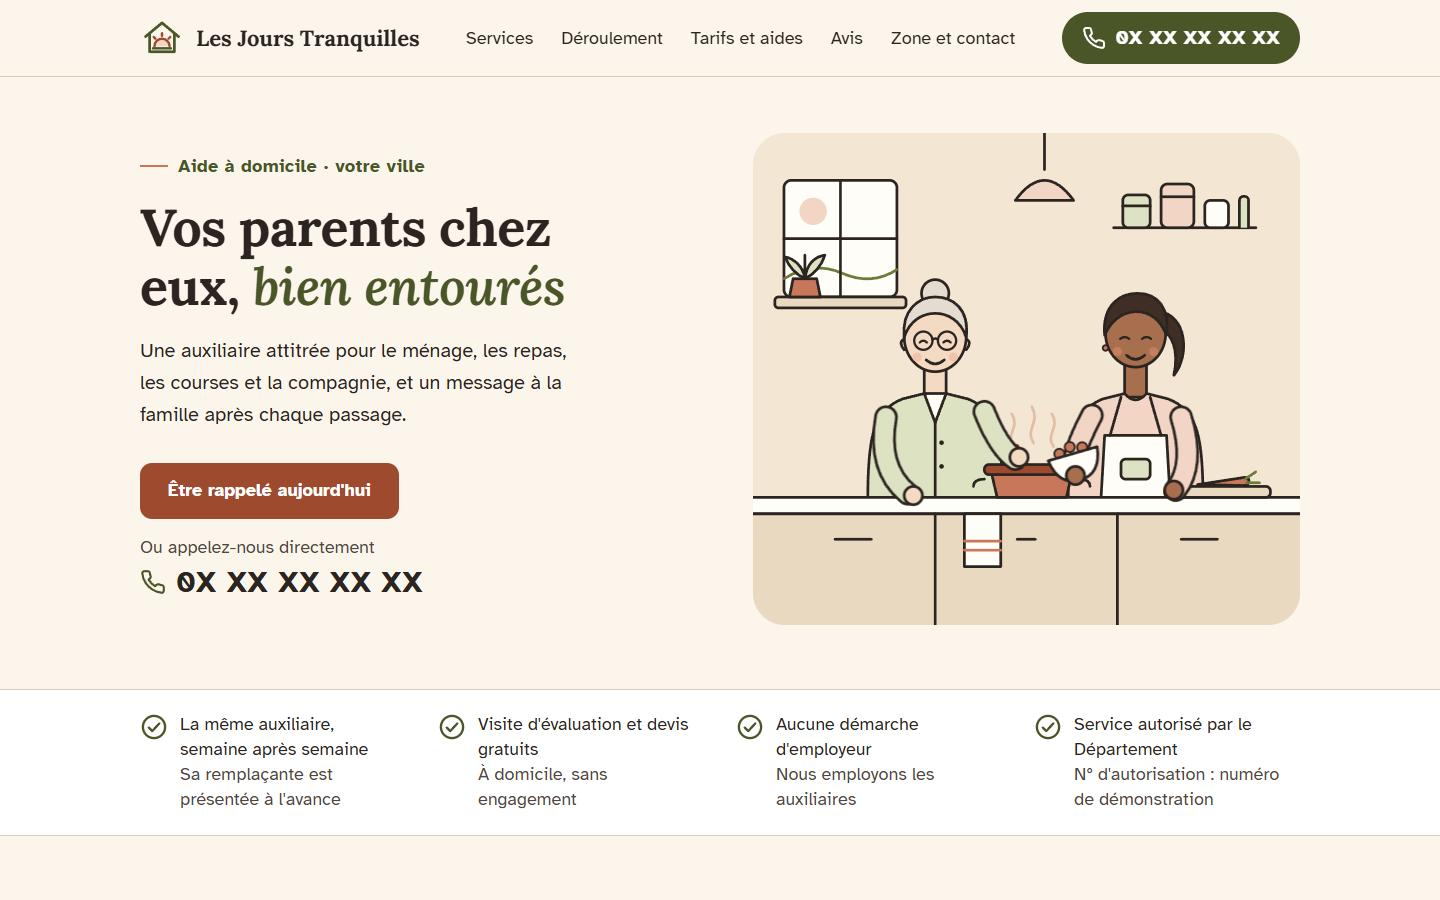
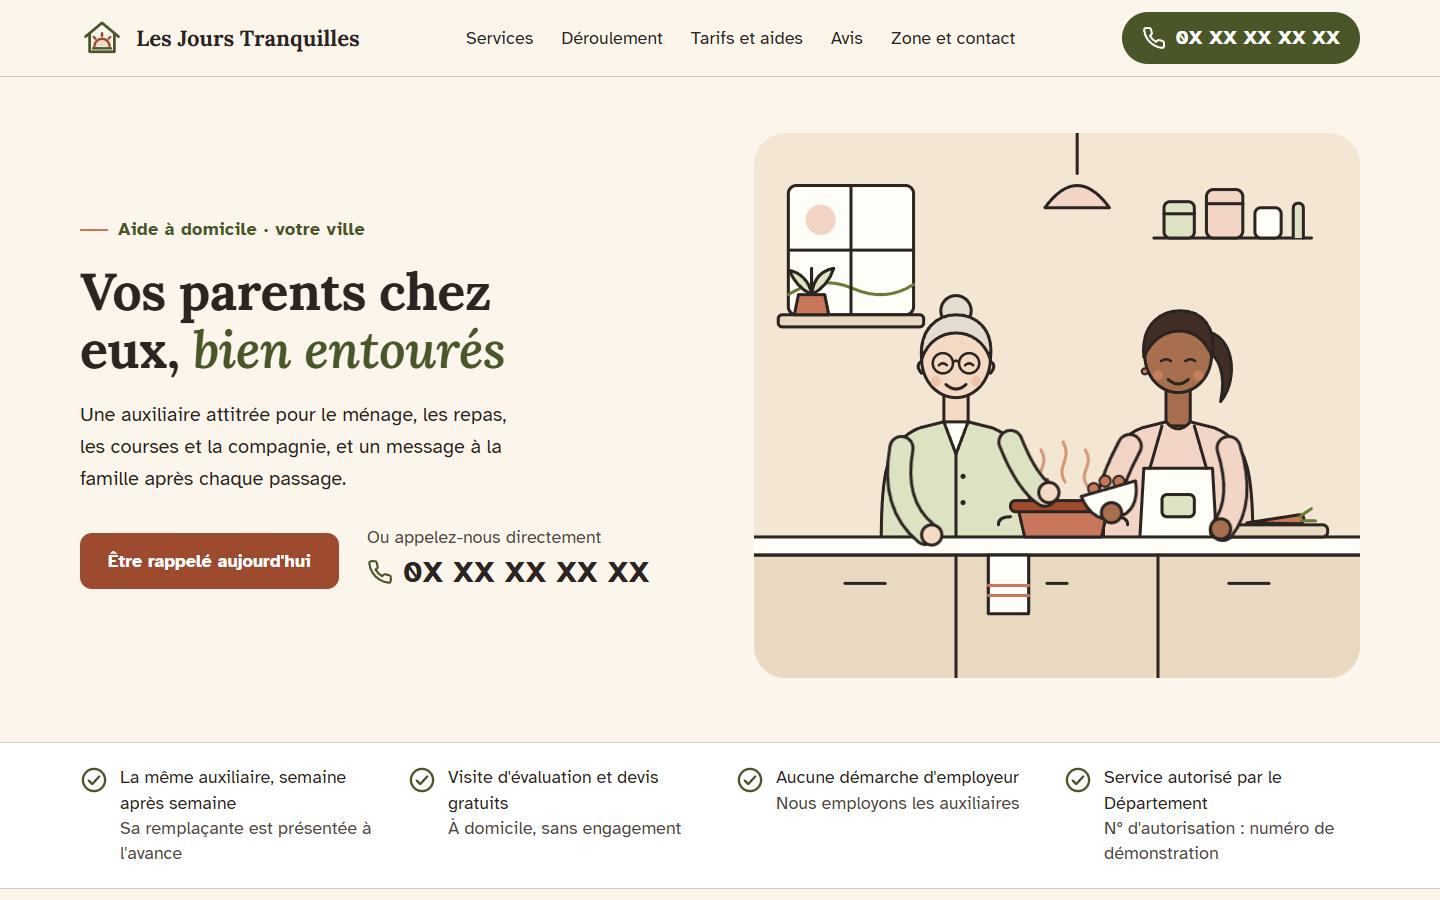
Fit each anchored silver-eco section in the desktop viewport

diff --git a/vitrine-silver-eco/index.html b/vitrine-silver-eco/index.html
@@ -104,7 +104,7 @@ section[id]{scroll-margin-top:96px}
 .callbar{display:none}
 
 /* Header */
-.site-header{position:sticky;top:0;z-index:50;background:rgba(251,245,236,.96);border-bottom:1px solid var(--color-neutral-300)}
+.site-header{position:sticky;top:0;z-index:50;background:var(--color-neutral-50);border-bottom:1px solid var(--color-neutral-300)}
 .site-header .wrap{display:flex;align-items:center;justify-content:space-between;gap:24px;height:76px}
 .brand{display:flex;align-items:center;gap:12px;text-decoration:none;color:var(--color-neutral-900)}
 .brand svg{width:44px;height:44px}
@@ -151,7 +151,7 @@ section[id]{scroll-margin-top:96px}
 /* Services */
 .services-grid{display:grid;grid-template-columns:repeat(3,1fr);gap:24px}
 .service{background:var(--color-neutral-0);border-radius:var(--radius-lg);box-shadow:var(--shadow-md);padding:32px;display:flex;flex-direction:column;gap:14px}
-.service .ico{width:64px;height:64px;border-radius:18px;background:var(--tint-olive);display:grid;place-items:center;color:var(--color-brand-secondary)}
+.service .ico{flex:none;width:64px;height:64px;border-radius:18px;background:var(--tint-olive);display:grid;place-items:center;color:var(--color-brand-secondary)}
 .service:nth-child(even) .ico{background:var(--tint-terracotta);color:var(--color-brand-primary-hover)}
 .service .ico svg{width:40px;height:40px}
 .services-foot{margin-top:40px;display:flex;flex-wrap:wrap;align-items:center;gap:16px 24px}
@@ -331,6 +331,91 @@ section[id]{scroll-margin-top:96px}
 .footer-legal strong{color:#FBF5EC}
 .site-footer .brand{color:#FBF5EC}
 
+
+.price-actions{margin-top:auto;padding-top:8px;display:flex;flex-wrap:wrap;align-items:center;gap:12px 24px}
+.zone-lead{margin-top:14px}
+.zone-a .map-card{margin-top:24px}
+.zone-a .agency{margin-top:24px}
+.zone-b .check-form{margin-top:24px}
+.zone-b .communes{margin-top:0}
+
+/* Icon buttons: glyph only, no background, border or focus ring; focus shown by colour and size */
+.step-btn{border:0 !important;background:transparent !important;box-shadow:none !important;color:var(--color-brand-secondary);font-size:36px;font-weight:700;
+  transition:color var(--duration-fast) var(--ease-standard),transform var(--duration-fast) var(--ease-standard)}
+.step-btn:hover{color:var(--color-brand-primary)}
+.step-btn:focus-visible{outline:none;box-shadow:none !important;color:var(--color-brand-primary);transform:scale(1.25)}
+
+/* Desktop: each anchored section fits the screen under the fixed header */
+@media (min-width:1025px){
+  section[id]{scroll-margin-top:76px}
+  .section{padding:56px 0}
+  .section-head{margin-bottom:28px}
+  .section-head p{margin-top:10px}
+  .service{flex-direction:row;align-items:flex-start;padding:24px;gap:18px}
+  .service .ico{width:56px;height:56px}
+  .service .ico svg{width:34px;height:34px}
+  .service p{margin-top:6px}
+  .services-grid{gap:20px}
+  .services-foot{margin-top:28px}
+  #tarifs{padding:40px 0}
+  #tarifs .section-head{margin-bottom:20px}
+  .pricing-grid{grid-template-columns:.9fr 1.1fr;gap:24px}
+  .price-card,.sim{padding:28px}
+  .price-card{gap:12px}
+  .price{font-size:50px}
+  .sim-control{margin:14px 0 16px}
+  .calc dd{font-size:26px}
+  .calc div{padding:12px 16px}
+  .calc dt{margin:-12px -16px 10px;padding:10px 16px}
+  .sim-warning{margin-top:12px;padding:10px 14px}
+  .sim-foot{margin-top:12px}
+  .aids{margin-top:24px}
+  .aid{padding-top:18px}
+  .aid p{margin-top:6px}
+  .aid .source{margin-top:6px}
+  #avis .section-head{margin-bottom:24px}
+  .reviews-foot{margin-top:18px}
+  #contact{padding:40px 0}
+  .contact .wrap{grid-template-columns:1.1fr .8fr 1.1fr;gap:32px}
+  .map-card{padding:16px}
+  .legend{margin-top:10px}
+  .agency{grid-template-columns:1fr 1fr}
+  .communes{grid-template-columns:1fr;gap:14px}
+  .communes ul{margin-top:4px}
+  .check-row .btn{width:100%;white-space:normal;text-align:center}
+  .contact-card{padding:28px}
+  .contact-card hr{margin:18px 0}
+  .big-phone{font-size:34px;margin:6px 0 2px}
+  .big-phone svg{width:30px;height:30px}
+  .contact-card h2{font-size:30px !important}
+  .field{margin-bottom:14px}
+  .form-note{margin-top:10px}
+}
+
+
+@media (min-width:1400px){
+  :root{--maxw:1320px}
+}
+@media (min-width:1025px){
+  section[id]{scroll-margin-top:77px}
+  .sim-control{grid-template-columns:auto auto 1fr auto auto;gap:10px}
+  .sim-control label{grid-column:1;grid-row:1;margin-right:6px}
+  #hours-minus{grid-column:2;grid-row:1}#hours{grid-column:3;grid-row:1}#hours-plus{grid-column:4;grid-row:1}
+  .sim-control .sim-hours{grid-column:5;grid-row:1}
+  .contact .wrap{grid-template-columns:1.05fr .75fr 1.2fr}
+  .contact-card h3{font-size:22px}
+  #contact{padding:36px 0}
+}
+
+
+@media (min-width:1025px){
+  #tarifs{padding:32px 0}
+  .sim .sim-warning{margin-top:4px;padding:6px 12px}
+  #tarifs .section-head{margin-bottom:14px}
+  #tarifs .aids{margin-top:16px}
+  #tarifs .aid{padding-top:14px}
+}
+
 @media (prefers-reduced-motion: reduce){
   html{scroll-behavior:auto}
   *,*::before,*::after{animation-duration:0ms !important;animation-iteration-count:1 !important;transition-duration:0ms !important}
@@ -358,6 +443,7 @@ section[id]{scroll-margin-top:96px}
 @media (max-width:767px){
   :root{--gutter:16px}
   body{font-size:19px;padding-top:60px}
+  section[id]{scroll-margin-top:64px}
   h1{font-size:38px;line-height:1.15}
   h2{font-size:30px}
   h3{font-size:23px}
@@ -738,29 +824,27 @@ section[id]{scroll-margin-top:96px}
 <section class="section section--alt" id="tarifs" aria-labelledby="pricing-title">
   <div class="wrap">
     <div class="section-head">
-      <p class="eyebrow">Tarifs et aides</p>
       <h2 id="pricing-title">Le vrai prix, aides déduites</h2>
-      <p class="lead">Le tarif est affiché toutes taxes comprises. Le devis, personnalisé, est gratuit.</p>
     </div>
 
     <div class="pricing-grid">
       <div class="price-card">
         <span class="tag" style="align-self:flex-start">Tarif d'exemple</span>
         <p class="price">35,50&nbsp;€<small>TTC de l'heure</small></p>
-        <p>Pour le ménage, les repas, les courses, la compagnie et l'aide au lever et au coucher.</p>
-        <p class="source">Tarif de démonstration, calé sur le tarif public d'une aide à domicile jusqu'à 25 h par semaine à l'agence <a href="https://www.petits-fils.com/nos-agences/agence-aide-a-domicile-bordeaux-chartrons/#tarifs" rel="noopener">Petits-fils Bordeaux Chartrons</a> (consulté le 13/11/2026). Ce réseau est cité comme repère public, ce n'est pas un prix réel de Les Jours Tranquilles.</p>
-        <div class="price-example">
-          <p><b>Exemple&nbsp;: 6 h par semaine</b></p>
-          <p>213&nbsp;€ TTC, soit 106,50&nbsp;€ après le crédit d'impôt de 50&nbsp;%, hors APA. Sur 52 semaines, 11&nbsp;076&nbsp;€ de dépenses, sous le plafond de 12&nbsp;000&nbsp;€.</p>
-          <p class="source">Votre devis gratuit précise le tarif et les aides pour votre situation.</p>
+        <p>Prix TTC pour le ménage, les repas, les courses, la compagnie et l'aide au lever et au coucher. Le devis, personnalisé, est gratuit.</p>
+        <p class="source">Tarif de démonstration, calé sur le tarif public jusqu'à 25 h par semaine de l'agence <a href="https://www.petits-fils.com/nos-agences/agence-aide-a-domicile-bordeaux-chartrons/#tarifs" rel="noopener">Petits-fils Bordeaux Chartrons</a> (consulté le 13/11/2026), cité comme repère&nbsp;: ce n'est pas un prix réel de Les Jours Tranquilles.</p>
+        <div class="price-actions">
+          <a class="btn btn--primary" href="#rappel">Recevoir un devis gratuit</a>
+          <a href="#">Voir la grille des tarifs détaillés</a>
         </div>
       </div>
 
       <div class="sim" aria-labelledby="sim-title">
         <h3 id="sim-title">Calculez votre coût réel</h3>
-        <p class="muted">Exemple de calcul sur le tarif d'exemple, hors APA.</p>
+        <p class="muted" id="sim-example">Exemple&nbsp;: 6 h par semaine, sous le plafond annuel. Hors APA.</p>
+        <p class="sim-warning" id="sim-warning" hidden><svg aria-hidden="true"><use href="#i-alert"/></svg><span id="sim-warning-text"></span></p>
         <div class="sim-control">
-          <label for="hours">Nombre d'heures par semaine</label>
+          <label for="hours">Heures par semaine</label>
           <button class="step-btn" type="button" id="hours-minus" aria-label="Une heure de moins">−</button>
           <input type="range" id="hours" min="1" max="25" step="1" value="6" aria-describedby="hours-out">
           <button class="step-btn" type="button" id="hours-plus" aria-label="Une heure de plus">+</button>
@@ -771,32 +855,26 @@ section[id]{scroll-margin-top:96px}
           <div><dt>Crédit d'impôt</dt><dd id="out-credit">− 106,50&nbsp;€<small>soit 50&nbsp;%</small></dd></div>
           <div class="net"><dt>Coût réel</dt><dd id="out-net">106,50&nbsp;€<small>par semaine</small></dd></div>
         </dl>
-        <p class="sim-warning" id="sim-warning" hidden><svg aria-hidden="true"><use href="#i-alert"/></svg><span id="sim-warning-text"></span></p>
-        <p class="sim-foot">Sous réserve de la législation en vigueur. Le crédit d'impôt est calculé sur les dépenses retenues dans la limite de 12&nbsp;000&nbsp;€ par an, majorée de 1&nbsp;500&nbsp;€ par membre du foyer ou ascendant de plus de 65 ans, sans dépasser 15&nbsp;000&nbsp;€. Source&nbsp;: <a href="https://www.service-public.gouv.fr/particuliers/vosdroits/F12" rel="noopener">fiche F12, Service Public</a> (vérifiée le 15/04/2026, consultée le 13/11/2026).</p>
+        <p class="sim-foot">Sous réserve de la législation en vigueur. Plafond annuel des dépenses&nbsp;: 12&nbsp;000&nbsp;€, majoré de 1&nbsp;500&nbsp;€ par membre du foyer ou ascendant de plus de 65&nbsp;ans, 15&nbsp;000&nbsp;€ au total. Source&nbsp;: <a href="https://www.service-public.gouv.fr/particuliers/vosdroits/F12" rel="noopener">fiche F12, Service Public</a> (vérifiée le 15/04/2026).</p>
       </div>
     </div>
 
     <div class="aids">
       <div class="aid">
         <h3>L'APA</h3>
-        <p>L'allocation personnalisée d'autonomie aide les personnes d'au moins 60 ans à payer l'aide à domicile. Elle est versée par le département. Nous vous aidons à monter le dossier.</p>
-        <p class="source">Source&nbsp;: <a href="https://www.service-public.gouv.fr/particuliers/vosdroits/F10009" rel="noopener">fiche F10009, Service Public</a> (vérifiée le 01/06/2026, consultée le 13/11/2026).</p>
+        <p>Versée par le département aux personnes d'au moins 60 ans pour payer l'aide à domicile.</p>
+        <p class="source">Source&nbsp;: <a href="https://www.service-public.gouv.fr/particuliers/vosdroits/F10009" rel="noopener">fiche F10009, Service Public</a> (vérifiée le 01/06/2026).</p>
       </div>
       <div class="aid">
         <h3>Le crédit d'impôt</h3>
-        <p>La moitié des dépenses d'aide à domicile vous est rendue en crédit d'impôt, même si vous n'êtes pas imposable. Les aides reçues, dont l'APA, sont déduites des dépenses.</p>
+        <p>La moitié des dépenses vous est rendue, même sans impôt à payer. Les aides reçues, dont l'APA, en sont déduites.</p>
         <p class="source">Source&nbsp;: <a href="https://www.service-public.gouv.fr/particuliers/vosdroits/F12" rel="noopener">fiche F12, Service Public</a>.</p>
       </div>
       <div class="aid">
         <h3>L'avance immédiate</h3>
-        <p>Avec ce dispositif de l'Urssaf, le crédit d'impôt est déduit dès le paiement&nbsp;: vous ne réglez que le reste. Il est réservé aux services inscrits. Nous vous dirons à la visite s'il s'applique.</p>
+        <p>Le crédit d'impôt est déduit dès le paiement. Réservée aux services inscrits à l'Urssaf&nbsp;: nous vous dirons à la visite si elle s'applique.</p>
         <p class="source">Source&nbsp;: <a href="https://www.service-public.gouv.fr/particuliers/vosdroits/F12" rel="noopener">fiche F12, Service Public</a>.</p>
       </div>
-    </div>
-
-    <div class="pricing-cta">
-      <a class="btn btn--primary" href="#rappel">Recevoir un devis gratuit</a>
-      <a href="#">Voir la grille des tarifs détaillés</a>
     </div>
   </div>
 </section>
@@ -850,10 +928,10 @@ section[id]{scroll-margin-top:96px}
 <!-- 8. ZONE & CONTACT -->
 <section class="section contact" id="contact" aria-labelledby="zone-title">
   <div class="wrap">
-    <div>
+    <div class="zone-a">
       <h2 id="zone-title">Où nous intervenons</h2>
-      <p class="lead" style="margin-top:14px">Autour de Lisebourg, sur deux secteurs. Les communes ci-dessous sont fictives.</p>
-      <div class="map-card" style="margin-top:28px">
+      <p class="lead zone-lead">Autour de Lisebourg, sur deux secteurs. Les communes sont fictives.</p>
+      <div class="map-card">
         <svg viewBox="0 0 520 400" role="img" aria-labelledby="map-title">
           <title id="map-title">Carte illustrée de la zone d'intervention : le secteur nord autour de Lisebourg et le nouveau secteur sud, de part et d'autre de la Lise.</title>
           <rect width="520" height="400" rx="14" fill="#FBF5EC"/>
@@ -890,6 +968,13 @@ section[id]{scroll-margin-top:96px}
           <span><i style="background:#F2D5C5;border-color:#9E4A2F;border-style:dashed"></i>Secteur sud, nouveau</span>
         </div>
       </div>
+      <div class="agency">
+        <div><h3>Horaires</h3><p>Du lundi au vendredi, de 8&nbsp;h&nbsp;30 à 18&nbsp;h.<br><span class="muted">Horaires de démonstration</span></p></div>
+        <div><h3>Agence</h3><p>Rue des Tilleuls, Lisebourg.<br><span class="muted">Adresse de démonstration</span></p></div>
+      </div>
+    </div>
+
+    <div class="zone-b">
       <div class="communes">
         <div><h3>Secteur nord</h3><ul><li>Lisebourg</li><li>Val-des-Tilleuls</li><li>Hautechênaie</li><li>Saint-Ober-sur-Lise</li><li>Combe-aux-Merles</li></ul></div>
         <div><h3>Secteur sud</h3><ul><li>Prémoulin-les-Vignes</li><li>Brossonnet</li><li>Les Hauts-Vergers</li></ul></div>
@@ -910,7 +995,7 @@ section[id]{scroll-margin-top:96px}
     <div class="contact-card" id="rappel">
       <h2 style="font-size:32px">Parlons de votre parent</h2>
       <a class="big-phone" href="tel:0XXXXXXXXX" aria-label="Appeler le 0X XX XX XX XX (numéro de démonstration)"><svg aria-hidden="true"><use href="#i-phone"/></svg>0X XX XX XX XX</a>
-      <p class="muted">Une personne de l'agence vous répond. Numéro de démonstration.</p>
+      <p class="muted">Une personne de l'agence vous répond (numéro de démonstration).</p>
       <hr>
       <h3>Ou laissez votre numéro, on vous rappelle</h3>
       <form id="callback" novalidate style="margin-top:18px">
@@ -927,14 +1012,9 @@ section[id]{scroll-margin-top:96px}
         </div>
         <button class="btn btn--primary" type="submit" id="cb-submit" style="width:100%">Être rappelé aujourd'hui</button>
         <p class="error send-error" id="cb-send-err" aria-live="polite" hidden></p>
-        <p class="form-note">Votre nom et votre numéro servent uniquement à vous rappeler, et sont supprimés après trois mois sans suite (durée de démonstration). Ne précisez aucune information de santé. <a href="#">Politique de confidentialité</a></p>
+        <p class="form-note">Vos coordonnées servent uniquement à vous rappeler, puis sont supprimées après trois mois sans suite (durée de démonstration). N'indiquez aucune information de santé. <a href="#">Confidentialité</a></p>
       </form>
       <div class="success" id="cb-success" role="status" hidden><svg aria-hidden="true"><use href="#i-check"/></svg><p id="cb-success-text"></p></div>
-      <hr>
-      <div class="agency">
-        <div><h3>Horaires</h3><p>Du lundi au vendredi, de 8&nbsp;h&nbsp;30 à 18&nbsp;h.<br><span class="muted">Horaires de démonstration</span></p></div>
-        <div><h3>Agence</h3><p>Rue des Tilleuls, Lisebourg.<br><span class="muted">Adresse de démonstration</span></p></div>
-      </div>
     </div>
   </div>
 </section>
@@ -1009,9 +1089,10 @@ section[id]{scroll-margin-top:96px}
     document.getElementById('out-net').innerHTML=per(eur.format(ttc-credit));
     var w=document.getElementById('sim-warning');
     if(year>CEILING){
-      document.getElementById('sim-warning-text').textContent='Sur une année complète (52 semaines), '+h+' h par semaine représentent environ '+eur0.format(year)+' de dépenses, au-delà du plafond de base de 12 000 €. Le crédit d’impôt ne porte pas sur la part qui dépasse le plafond : le coût réel sur l’année sera plus élevé. Nous le calculons avec vous dans le devis.';
+      document.getElementById('sim-warning-text').textContent='Environ '+eur0.format(year)+' de dépenses sur 52 semaines : la part au-delà du plafond de 12 000 € n\u2019ouvre pas droit au crédit d\u2019impôt.';
       w.hidden=false;
     } else { w.hidden=true; }
+    document.getElementById('sim-example').hidden=!w.hidden;
   }
   range.addEventListener('input',render);
   document.getElementById('hours-minus').addEventListener('click',function(){range.value=Math.max(1,+range.value-1);render();});
